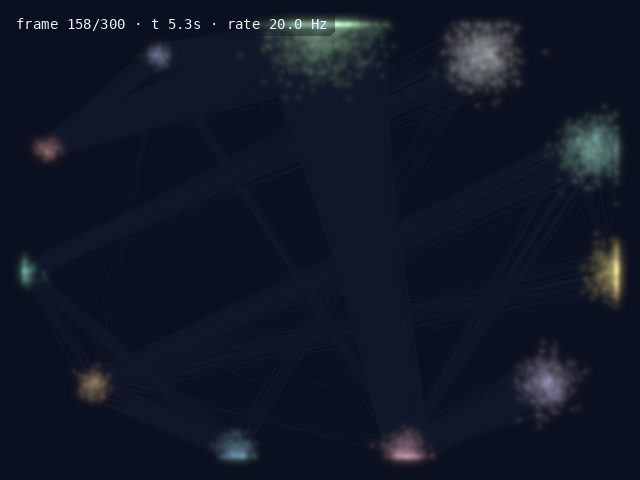
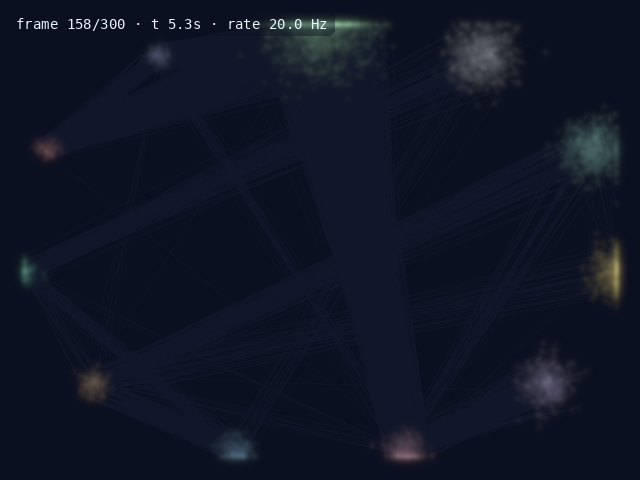
fix(brain): global normalization for G1

diff --git a/tools/brain_render.py b/tools/brain_render.py
@@ -4,7 +4,9 @@
 Vectorized GPU scatter of glow sprites over static edge background:
   sprite radius 6px / sigma 2.0, additive blending,
   bloom radius 12px strength 0.6, output gamma 2.2.
-Per-frame min-max norm of bin counts -> [0.15, 1.0] (never raw rate).
+GLOBAL normalization (G1 fix): reference anchor A = 99th percentile of all
+per-neuron per-bin firing counts over the 1000 bins; norm(v) = LO+(HI-LO)*clip(v/A,0,1)
+with [LO,HI]=[0.03,1.0], so quiet base-rate frames stay dim vs volley frames.
 Frame f aggregates mean of its 10/3 bins (1000 bins -> 300 frames);
 persistence = exponential decay tau=4 frames (weight-normalized average).
 Legend: top-left monospace 14px #E7F5FF on 40%-alpha navy pill.
@@ -29,7 +31,7 @@ SPRITE_R, SPRITE_SIGMA = 6, 2.0
 BLOOM_R, BLOOM_SIGMA, BLOOM_STRENGTH = 12, 4.0, 0.6
 GAMMA = 2.2
 TAU = 4.0
-NORM_LO, NORM_HI = 0.15, 1.0
+NORM_LO, NORM_HI = 0.03, 1.0  # GLOBAL norm floor/dim anchor (was per-frame [0.15, 1.0])
 N_BINS, N_FRAMES = 1000, 300
 FRAME_S = 10.0 / 300.0
 DECAY_WIN = 24  # ~6*tau, tail < 0.25%
@@ -74,28 +76,23 @@ def gauss_kernel2d(radius, sigma, device):
 
 
 @torch.no_grad()
-def render_frame(F, pos_xy, color01, bin_of_spike, spike_ids, bin_rate,
+def render_frame(F, pos_xy, color01, gmat, anchor, bin_rate,
                  bg, k_sprite, k_bloom, font, device):
     t0 = time.perf_counter()
     f0 = max(0, F - DECAY_WIN)
     hist_frames = F - f0 + 1
     # raw per-neuron values for history frames: mean count over frame bins
+    # (identical aggregation as before); GLOBAL normalization via anchor
     ws, acc = [], torch.zeros(pos_xy.shape[0], device=device, dtype=torch.float32)
     for k in range(f0, F + 1):
         bins = frame_bins(k)
-        nb = len(bins)
-        sel = np.isin(bin_of_spike, bins)
-        cnt = np.bincount(spike_ids[sel], minlength=pos_xy.shape[0]).astype(np.float32) / nb
+        cnt = gmat[bins].mean(axis=0).astype(np.float32)  # mean over frame's bins
         v = torch.from_numpy(cnt).to(device)
-        vmin, vmax = v.min(), v.max()
-        if float(vmax - vmin) < 1e-9:
-            norm = torch.full_like(v, NORM_LO)
-        else:
-            norm = NORM_LO + (NORM_HI - NORM_LO) * (v - vmin) / (vmax - vmin)
+        norm = NORM_LO + (NORM_HI - NORM_LO) * (v / anchor).clamp(0.0, 1.0)
         w = math.exp(-(F - k) / TAU)
         ws.append(w)
         acc = acc + norm * w
-    lit = acc / sum(ws)  # weight-normalized decay average, stays in [0.15, 1.0]
+    lit = acc / sum(ws)  # weight-normalized decay average, stays in [0.03, 1.0]
     # vectorized splat: deposit (color + white-hot core) at rounded pixels
     xs = pos_xy[:, 0].round().clamp(0, W - 1).long()
     ys = pos_xy[:, 1].round().clamp(0, H - 1).long()
@@ -163,7 +160,14 @@ def main():
     st_ms, sids = sp["spike_times"], sp["spike_ids"]
     bin_rate = sp["bin10ms_rate"]
     assert bin_rate.shape == (1000,)
-    bin_of_spike = np.clip((st_ms // 10).astype(np.int32), 0, 999)
+    bin_of_spike = np.clip((st_ms // 10).astype(np.int64), 0, 999)
+    # GLOBAL anchor: full per-neuron x per-bin count matrix, single vectorized pass
+    gmat = np.bincount(bin_of_spike * 5500 + sids.astype(np.int64),
+                       minlength=1000 * 5500).reshape(1000, 5500)
+    anchor = float(np.percentile(gmat, 99))
+    print(f"global anchor p99={anchor:.4f} counts (max={int(gmat.max())}, "
+          f"mean={gmat.mean():.4f}); norm maps [0, anchor] -> [{NORM_LO}, {NORM_HI}]",
+          flush=True)
 
     k_sprite = gauss_kernel2d(SPRITE_R, SPRITE_SIGMA, device)
     k_bloom = gauss_kernel2d(BLOOM_R, BLOOM_SIGMA, device)
@@ -178,7 +182,7 @@ def main():
     dts = []
     for F, name in zip(frames, names):
         img, dt, rate, lmax, lmean = render_frame(
-            F, pos_t, col_t, bin_of_spike, sids, bin_rate, bg, k_sprite, k_bloom, font, device)
+            F, pos_t, col_t, gmat, anchor, bin_rate, bg, k_sprite, k_bloom, font, device)
         path = os.path.join(args.outdir, name + ".png")
         img.save(path)
         a = np.array(img)

diff --git a/.omo/notepads/brain-hunt-viz-10s/learnings.md b/.omo/notepads/brain-hunt-viz-10s/learnings.md
@@ -41,3 +41,13 @@
 - Commit `feat(brain): cuda renderer + G1 probes` + `git push origin viz10/brain` exit 0.
   HARD STOP after push: full 300-frame render is Task 4 (needs G1 human OK).
 - Push: first attempt connection-reset, retry exit 0 (`34eaec3..3f6a545 viz10/brain -> viz10/brain`).
+
+# 2026-09-16T22:05Z — G1 fix DONE (global normalization, re-pushed viz10/brain)
+- Human gate rejected per-frame min-max (equal-brightness evidence above, logged in out/fail_brain.log).
+- Change confined to tools/brain_render.py normalization: global p99 anchor A=2.0 counts over
+  1000-bin per-neuron matrix (single vectorized bincount, 5.5M cells); map [0,A]->[0.03,1.0].
+  Aggregation (mean of frame's 10/3 bins), tau=4 weight-normalized decay, sprite/bloom/gamma,
+  palette, bg, legend all byte-identical logic. Side benefit: matrix reuse cut render to 0.72s/0.04s.
+- Probes re-rendered ONLY (frames 65 hit / 158 med): gap now 2.81x (lum>100) / 9.75x (lit>0.2) /
+  157x (lit>0.3). bg exact, white 0%, legend legible, VRAM 0.030GB, 300f projection ~114s.
+- Commit `fix(brain): global normalization for G1` + push (see below). HARD STOP, awaiting G1 re-review.
